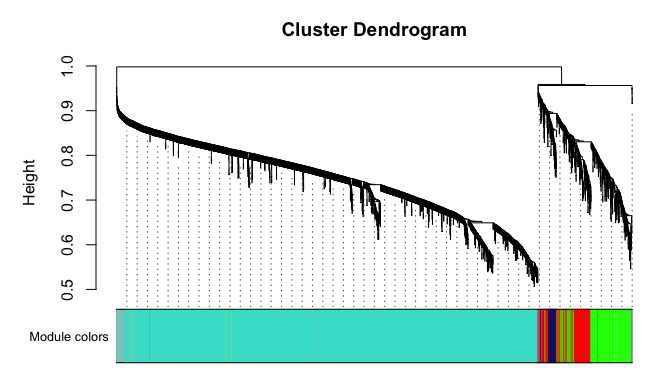
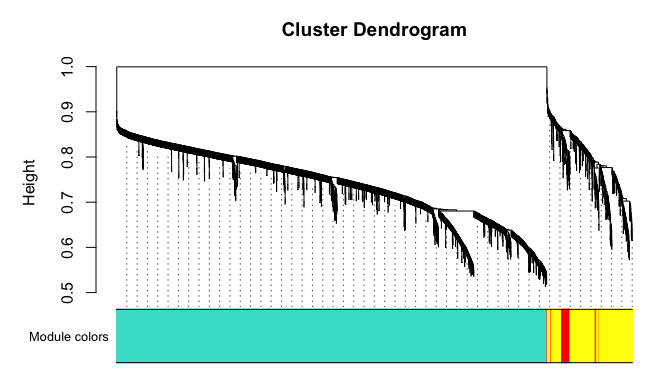
reorg wgcna params

diff --git a/tutorials/wgcna.md b/tutorials/wgcna.md
@@ -1,3 +1,4 @@
+
 ---
 title: "WGCNA Gene Correlation Network Analysis"
 layout: single
@@ -9,7 +10,8 @@ header:
   overlay_image: /assets/images/dna.jpg
 ---
 
-**Last Update**: 22 Dec 2020 <br/> **R Markdown**:
+
+**Last Update**: 23 Dec 2020 <br/> **R Markdown**:
 [WGCNA.Rmd](https://bioinformaticsworkbook.org/tutorials/WGCNA.Rmd)
 
 # Network analysis with WGCNA
@@ -443,21 +445,31 @@ using the `blockwiseModules` command. See the
 for more information on the parameters.
 
 ``` r
-cor <- WGCNA::cor       # Force it to use WGCNA cor function
+cor <- WGCNA::cor       # Force it to use WGCNA cor function (fix a namespace conflict issue)
 netwk <- blockwiseModules(input_mat,                # <= input here
-                          power = 9,               # <= power here
+                          
+                          # == Adjacency Function ==
+                          power = 10,                # <= power here
+                          networkType = "signed",
+                          
+                          # == Tree and Block Options ==
+                          deepSplit = 2,
+                          pamRespectsDendro = F,
+                          # detectCutHeight = 0.75,
                           minModuleSize = 30,
-                          #reassignThreshold = 0, 
+                          maxBlockSize = 4000,
+                          
+                          # == Module Adjustments ==
+                          reassignThreshold = 0, 
                           mergeCutHeight = 0.25, 
-                          numericLabels = T,
-                          pamRespectsDendro = F, 
+                          
+                          # == TOM == Archive the run results in TOM file (saves time)
                           saveTOMs = T, 
                           saveTOMFileBase = "ER",
-                          verbose = 3, 
-                          #maxBlockSize = 40000, 
-                          deepSplit = 2, 
-                          #detectCutHeight = 0.5,
-                          networkType = "signed")
+                          
+                          # == Output Options
+                          numericLabels = T,
+                          verbose = 3)
 #>  Calculating module eigengenes block-wise from all genes
 #>    Flagging genes and samples with too many missing values...
 #>     ..step 1
@@ -467,8 +479,8 @@ netwk <- blockwiseModules(input_mat,                # <= input here
 #>    ..merging smaller clusters...
 #> Block sizes:
 #> gBlocks
-#>    1    2    3    4    5    6 
-#> 4977 4955 4946 4938 4591 3022 
+#>    1    2    3    4    5    6    7    8 
+#> 3992 3991 3948 3745 3695 3580 3453 1025 
 #>  ..Working on block 1 .
 #>     TOM calculation: adjacency..
 #>     ..will use 4 parallel threads.
@@ -482,11 +494,18 @@ netwk <- blockwiseModules(input_mat,                # <= input here
 #>  ....detecting modules..
 #>  ....calculating module eigengenes..
 #>  ....checking kME in modules..
-#>      ..removing 30 genes from module 1 because their KME is too low.
-#>      ..removing 29 genes from module 2 because their KME is too low.
-#>      ..removing 11 genes from module 3 because their KME is too low.
-#>      ..removing 1 genes from module 4 because their KME is too low.
-#>      ..removing 1 genes from module 5 because their KME is too low.
+#>      ..removing 4 genes from module 1 because their KME is too low.
+#>      ..removing 1 genes from module 2 because their KME is too low.
+#>      ..removing 1 genes from module 3 because their KME is too low.
+#>      ..removing 3 genes from module 4 because their KME is too low.
+#> ... output truncated for brevity
+
+cor<-stats::cor
+```
+
+<details><summary>See full output</summary>
+
+``` r
 #>  ..Working on block 2 .
 #>     TOM calculation: adjacency..
 #>     ..will use 4 parallel threads.
@@ -500,13 +519,16 @@ netwk <- blockwiseModules(input_mat,                # <= input here
 #>  ....detecting modules..
 #>  ....calculating module eigengenes..
 #>  ....checking kME in modules..
-#>      ..removing 125 genes from module 1 because their KME is too low.
-#>      ..removing 102 genes from module 2 because their KME is too low.
-#>      ..removing 32 genes from module 3 because their KME is too low.
-#>      ..removing 5 genes from module 4 because their KME is too low.
-#>      ..removing 6 genes from module 5 because their KME is too low.
-#>      ..removing 2 genes from module 6 because their KME is too low.
-#>      ..removing 2 genes from module 11 because their KME is too low.
+#>      ..removing 8 genes from module 1 because their KME is too low.
+#>      ..removing 7 genes from module 2 because their KME is too low.
+#>      ..removing 25 genes from module 3 because their KME is too low.
+#>      ..removing 3 genes from module 4 because their KME is too low.
+#>      ..removing 2 genes from module 5 because their KME is too low.
+#>      ..removing 3 genes from module 7 because their KME is too low.
+#>      ..removing 2 genes from module 9 because their KME is too low.
+#>      ..removing 4 genes from module 11 because their KME is too low.
+#>      ..removing 1 genes from module 15 because their KME is too low.
+#>      ..removing 1 genes from module 16 because their KME is too low.
 #>  ..Working on block 3 .
 #>     TOM calculation: adjacency..
 #>     ..will use 4 parallel threads.
@@ -520,28 +542,11 @@ netwk <- blockwiseModules(input_mat,                # <= input here
 #>  ....detecting modules..
 #>  ....calculating module eigengenes..
 #>  ....checking kME in modules..
-#>      ..removing 25 genes from module 1 because their KME is too low.
-#>      ..removing 31 genes from module 2 because their KME is too low.
-#>      ..removing 17 genes from module 3 because their KME is too low.
-#>      ..removing 1 genes from module 4 because their KME is too low.
+#>      ..removing 50 genes from module 1 because their KME is too low.
+#>      ..removing 34 genes from module 2 because their KME is too low.
+#>      ..removing 10 genes from module 3 because their KME is too low.
+#>      ..removing 7 genes from module 4 because their KME is too low.
 #>      ..removing 1 genes from module 5 because their KME is too low.
-#>      ..removing 6 genes from module 6 because their KME is too low.
-#>      ..removing 3 genes from module 7 because their KME is too low.
-#>      ..removing 1 genes from module 8 because their KME is too low.
-#>      ..removing 1 genes from module 11 because their KME is too low.
-#>      ..removing 1 genes from module 12 because their KME is too low.
-#>      ..removing 1 genes from module 13 because their KME is too low.
-#>      ..removing 6 genes from module 15 because their KME is too low.
-#>      ..removing 1 genes from module 16 because their KME is too low.
-#>      ..removing 3 genes from module 20 because their KME is too low.
-#>      ..removing 3 genes from module 21 because their KME is too low.
-#>      ..removing 3 genes from module 23 because their KME is too low.
-#>      ..removing 1 genes from module 25 because their KME is too low.
-#>      ..removing 1 genes from module 26 because their KME is too low.
-#>      ..removing 1 genes from module 27 because their KME is too low.
-#>      ..removing 1 genes from module 35 because their KME is too low.
-#>      ..removing 1 genes from module 36 because their KME is too low.
-#>      ..removing 2 genes from module 37 because their KME is too low.
 #>  ..Working on block 4 .
 #>     TOM calculation: adjacency..
 #>     ..will use 4 parallel threads.
@@ -555,10 +560,16 @@ netwk <- blockwiseModules(input_mat,                # <= input here
 #>  ....detecting modules..
 #>  ....calculating module eigengenes..
 #>  ....checking kME in modules..
-#>      ..removing 10 genes from module 1 because their KME is too low.
-#>      ..removing 10 genes from module 2 because their KME is too low.
-#>      ..removing 12 genes from module 3 because their KME is too low.
-#>      ..removing 4 genes from module 4 because their KME is too low.
+#>      ..removing 12 genes from module 1 because their KME is too low.
+#>      ..removing 1 genes from module 2 because their KME is too low.
+#>      ..removing 3 genes from module 3 because their KME is too low.
+#>      ..removing 2 genes from module 4 because their KME is too low.
+#>      ..removing 1 genes from module 5 because their KME is too low.
+#>      ..removing 2 genes from module 7 because their KME is too low.
+#>      ..removing 1 genes from module 8 because their KME is too low.
+#>      ..removing 1 genes from module 9 because their KME is too low.
+#>      ..removing 1 genes from module 18 because their KME is too low.
+#>      ..removing 1 genes from module 31 because their KME is too low.
 #>  ..Working on block 5 .
 #>     TOM calculation: adjacency..
 #>     ..will use 4 parallel threads.
@@ -572,11 +583,17 @@ netwk <- blockwiseModules(input_mat,                # <= input here
 #>  ....detecting modules..
 #>  ....calculating module eigengenes..
 #>  ....checking kME in modules..
-#>      ..removing 13 genes from module 1 because their KME is too low.
-#>      ..removing 1 genes from module 2 because their KME is too low.
-#>      ..removing 12 genes from module 3 because their KME is too low.
-#>      ..removing 1 genes from module 4 because their KME is too low.
-#>      ..removing 4 genes from module 10 because their KME is too low.
+#>      ..removing 25 genes from module 1 because their KME is too low.
+#>      ..removing 2 genes from module 2 because their KME is too low.
+#>      ..removing 1 genes from module 3 because their KME is too low.
+#>      ..removing 2 genes from module 4 because their KME is too low.
+#>      ..removing 9 genes from module 5 because their KME is too low.
+#>      ..removing 8 genes from module 8 because their KME is too low.
+#>      ..removing 5 genes from module 9 because their KME is too low.
+#>      ..removing 2 genes from module 12 because their KME is too low.
+#>      ..removing 5 genes from module 13 because their KME is too low.
+#>      ..removing 2 genes from module 19 because their KME is too low.
+#>      ..removing 1 genes from module 22 because their KME is too low.
 #>  ..Working on block 6 .
 #>     TOM calculation: adjacency..
 #>     ..will use 4 parallel threads.
@@ -590,38 +607,60 @@ netwk <- blockwiseModules(input_mat,                # <= input here
 #>  ....detecting modules..
 #>  ....calculating module eigengenes..
 #>  ....checking kME in modules..
-#>      ..removing 40 genes from module 1 because their KME is too low.
-#>      ..removing 6 genes from module 2 because their KME is too low.
-#>      ..removing 5 genes from module 3 because their KME is too low.
-#>      ..removing 17 genes from module 4 because their KME is too low.
-#>      ..removing 21 genes from module 5 because their KME is too low.
-#>      ..removing 10 genes from module 6 because their KME is too low.
-#>      ..removing 3 genes from module 8 because their KME is too low.
+#>      ..removing 69 genes from module 1 because their KME is too low.
+#>      ..removing 41 genes from module 2 because their KME is too low.
+#>      ..removing 7 genes from module 3 because their KME is too low.
+#>      ..removing 4 genes from module 4 because their KME is too low.
+#>      ..removing 8 genes from module 5 because their KME is too low.
+#>      ..removing 2 genes from module 6 because their KME is too low.
+#>      ..removing 1 genes from module 8 because their KME is too low.
 #>      ..removing 1 genes from module 9 because their KME is too low.
 #>      ..removing 1 genes from module 11 because their KME is too low.
-#>   ..reassigning 10 genes from module 1 to modules with higher KME.
-#>   ..reassigning 6 genes from module 2 to modules with higher KME.
-#>   ..reassigning 6 genes from module 3 to modules with higher KME.
-#>   ..reassigning 3 genes from module 7 to modules with higher KME.
-#>   ..reassigning 2 genes from module 8 to modules with higher KME.
-#>   ..reassigning 1 genes from module 11 to modules with higher KME.
-#>   ..reassigning 1 genes from module 13 to modules with higher KME.
-#>   ..reassigning 1 genes from module 29 to modules with higher KME.
-#>   ..reassigning 2 genes from module 31 to modules with higher KME.
-#>   ..reassigning 1 genes from module 38 to modules with higher KME.
-#>   ..reassigning 1 genes from module 44 to modules with higher KME.
-#>   ..reassigning 1 genes from module 53 to modules with higher KME.
-#>   ..reassigning 10 genes from module 71 to modules with higher KME.
-#>   ..reassigning 6 genes from module 72 to modules with higher KME.
-#>   ..reassigning 3 genes from module 73 to modules with higher KME.
-#>   ..reassigning 1 genes from module 74 to modules with higher KME.
-#>   ..reassigning 2 genes from module 75 to modules with higher KME.
+#>      ..removing 1 genes from module 13 because their KME is too low.
+#>      ..removing 1 genes from module 17 because their KME is too low.
+#>  ..Working on block 7 .
+#>     TOM calculation: adjacency..
+#>     ..will use 4 parallel threads.
+#>      Fraction of slow calculations: 0.000000
+#>     ..connectivity..
+#>     ..matrix multiplication (system BLAS)..
+#>     ..normalization..
+#>     ..done.
+#>    ..saving TOM for block 7 into file ER-block.7.RData
+#>  ....clustering..
+#>  ....detecting modules..
+#>  ....calculating module eigengenes..
+#>  ....checking kME in modules..
+#>      ..removing 12 genes from module 1 because their KME is too low.
+#>      ..removing 8 genes from module 2 because their KME is too low.
+#>      ..removing 13 genes from module 3 because their KME is too low.
+#>      ..removing 10 genes from module 4 because their KME is too low.
+#>      ..removing 8 genes from module 5 because their KME is too low.
+#>      ..removing 1 genes from module 6 because their KME is too low.
+#>  ..Working on block 8 .
+#>     TOM calculation: adjacency..
+#>     ..will use 4 parallel threads.
+#>      Fraction of slow calculations: 0.000000
+#>     ..connectivity..
+#>     ..matrix multiplication (system BLAS)..
+#>     ..normalization..
+#>     ..done.
+#>    ..saving TOM for block 8 into file ER-block.8.RData
+#>  ....clustering..
+#>  ....detecting modules..
+#>  ....calculating module eigengenes..
+#>  ....checking kME in modules..
+#>      ..removing 3 genes from module 1 because their KME is too low.
+#>      ..removing 1 genes from module 3 because their KME is too low.
+#>      ..removing 1 genes from module 7 because their KME is too low.
 #>  ..merging modules that are too close..
 #>      mergeCloseModules: Merging modules whose distance is less than 0.25
 #>        Calculating new MEs...
-
-cor<-stats::cor
 ```
+
+</details>
+
+
 
 Let’s take a look at the modules, there
 
@@ -657,10 +696,10 @@ module_df <- data.frame(
 module_df[1:5,]
 #>            gene_id    colors
 #> 1 AC148152.3_FG008 turquoise
-#> 2 AC148167.6_FG001       red
-#> 3 AC149475.2_FG002      blue
-#> 4 AC149475.2_FG003      blue
-#> 5 AC149475.2_FG005      pink
+#> 2 AC148167.6_FG001      blue
+#> 3 AC149475.2_FG002      pink
+#> 4 AC149475.2_FG003      pink
+#> 5 AC149475.2_FG005      cyan
 ```
 
 However we need to figure out which modules are associated with each
